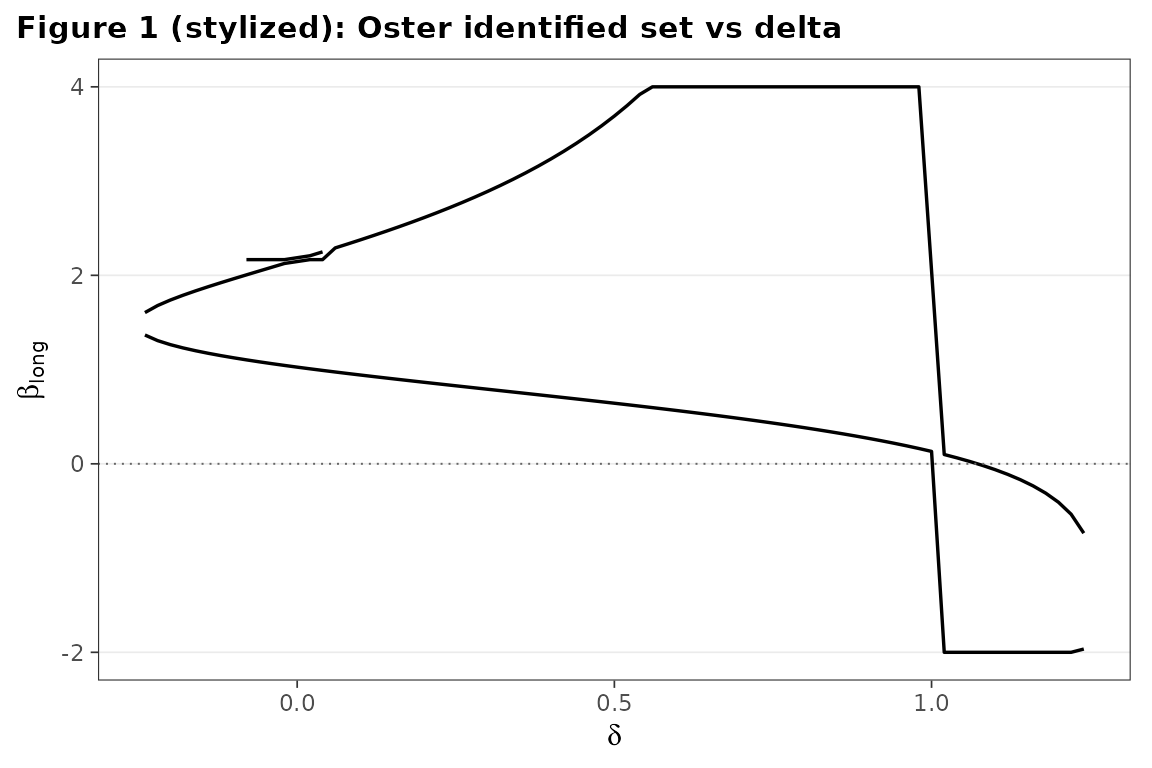
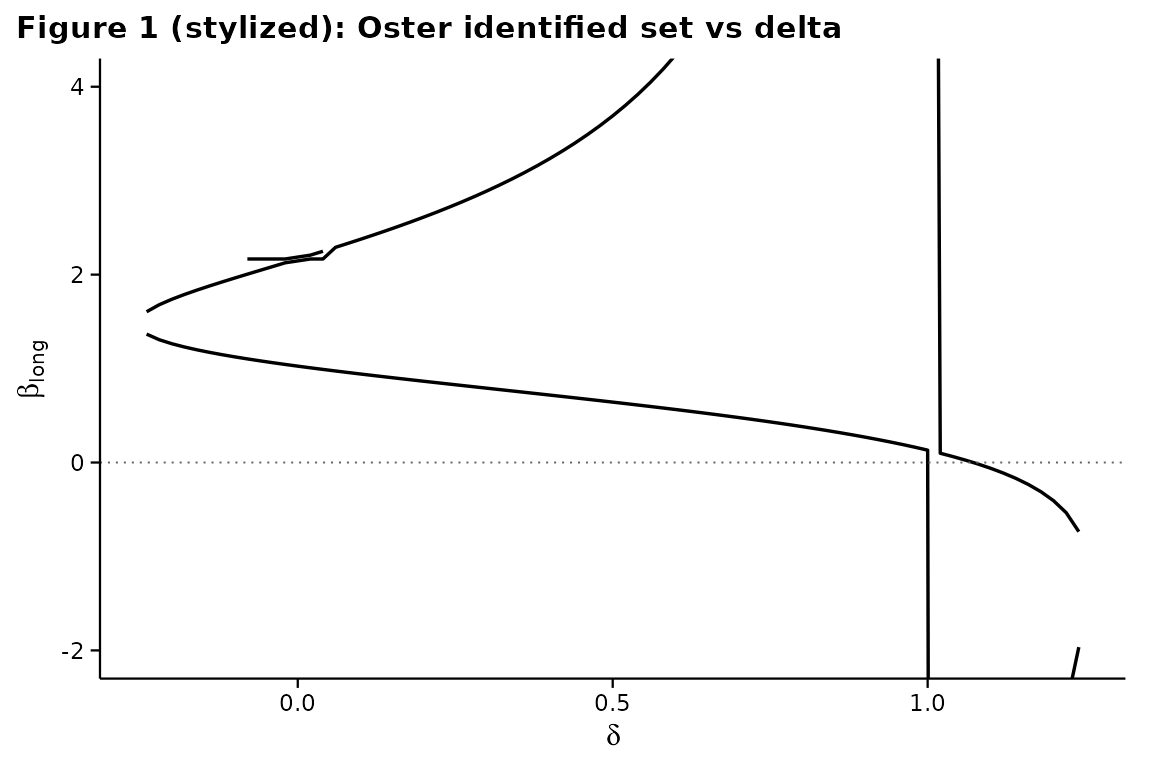
Deploying to gh-pages from @ mikenguyen13/regsensitivity@04977163bb1d66c568243dbd90709f98f32f695f 🚀

diff --git a/reference/theme_regsen.html b/reference/theme_regsen.html
@@ -1,11 +1,13 @@
 <!DOCTYPE html>
-<!-- Generated by pkgdown: do not edit by hand --><html lang="en-US"><head><meta http-equiv="Content-Type" content="text/html; charset=UTF-8"><meta charset="utf-8"><meta http-equiv="X-UA-Compatible" content="IE=edge"><meta name="viewport" content="width=device-width, initial-scale=1, shrink-to-fit=no"><title>Publication-ready theme for sensitivity plots — theme_regsen • regsensitivity</title><!-- favicons --><link rel="icon" type="image/png" sizes="96x96" href="../favicon-96x96.png"><link rel="icon" type="”image/svg+xml”" href="../favicon.svg"><link rel="apple-touch-icon" sizes="180x180" href="../apple-touch-icon.png"><link rel="icon" sizes="any" href="../favicon.ico"><link rel="manifest" href="../site.webmanifest"><script src="../deps/jquery-3.6.0/jquery-3.6.0.min.js"></script><meta name="viewport" content="width=device-width, initial-scale=1, shrink-to-fit=no"><link href="../deps/bootstrap-5.3.8/bootstrap.min.css" rel="stylesheet"><script src="../deps/bootstrap-5.3.8/bootstrap.bundle.min.js"></script><link href="../deps/font-awesome-6.5.2/css/all.min.css" rel="stylesheet"><link href="../deps/font-awesome-6.5.2/css/v4-shims.min.css" rel="stylesheet"><script src="../deps/headroom-0.11.0/headroom.min.js"></script><script src="../deps/headroom-0.11.0/jQuery.headroom.min.js"></script><script src="../deps/bootstrap-toc-1.0.1/bootstrap-toc.min.js"></script><script src="../deps/clipboard.js-2.0.11/clipboard.min.js"></script><script src="../deps/search-1.0.0/autocomplete.jquery.min.js"></script><script src="../deps/search-1.0.0/fuse.min.js"></script><script src="../deps/search-1.0.0/mark.min.js"></script><!-- pkgdown --><script src="../pkgdown.js"></script><meta property="og:title" content="Publication-ready theme for sensitivity plots — theme_regsen"><meta name="description" content="A ggplot2 theme tuned for figures that will be dropped into a paper:
-no panel background, a thin panel border, a faint horizontal grid to help
-read values off the y-axis, and a legend along the top so the plot region
-keeps its aspect ratio when the figure is scaled down to one column."><meta property="og:description" content="A ggplot2 theme tuned for figures that will be dropped into a paper:
-no panel background, a thin panel border, a faint horizontal grid to help
-read values off the y-axis, and a legend along the top so the plot region
-keeps its aspect ratio when the figure is scaled down to one column."><meta property="og:image" content="https://mikenguyen13.github.io/regsensitivity/logo.png"></head><body>
+<!-- Generated by pkgdown: do not edit by hand --><html lang="en-US"><head><meta http-equiv="Content-Type" content="text/html; charset=UTF-8"><meta charset="utf-8"><meta http-equiv="X-UA-Compatible" content="IE=edge"><meta name="viewport" content="width=device-width, initial-scale=1, shrink-to-fit=no"><title>Publication-ready theme for sensitivity plots — theme_regsen • regsensitivity</title><!-- favicons --><link rel="icon" type="image/png" sizes="96x96" href="../favicon-96x96.png"><link rel="icon" type="”image/svg+xml”" href="../favicon.svg"><link rel="apple-touch-icon" sizes="180x180" href="../apple-touch-icon.png"><link rel="icon" sizes="any" href="../favicon.ico"><link rel="manifest" href="../site.webmanifest"><script src="../deps/jquery-3.6.0/jquery-3.6.0.min.js"></script><meta name="viewport" content="width=device-width, initial-scale=1, shrink-to-fit=no"><link href="../deps/bootstrap-5.3.8/bootstrap.min.css" rel="stylesheet"><script src="../deps/bootstrap-5.3.8/bootstrap.bundle.min.js"></script><link href="../deps/font-awesome-6.5.2/css/all.min.css" rel="stylesheet"><link href="../deps/font-awesome-6.5.2/css/v4-shims.min.css" rel="stylesheet"><script src="../deps/headroom-0.11.0/headroom.min.js"></script><script src="../deps/headroom-0.11.0/jQuery.headroom.min.js"></script><script src="../deps/bootstrap-toc-1.0.1/bootstrap-toc.min.js"></script><script src="../deps/clipboard.js-2.0.11/clipboard.min.js"></script><script src="../deps/search-1.0.0/autocomplete.jquery.min.js"></script><script src="../deps/search-1.0.0/fuse.min.js"></script><script src="../deps/search-1.0.0/mark.min.js"></script><!-- pkgdown --><script src="../pkgdown.js"></script><meta property="og:title" content="Publication-ready theme for sensitivity plots — theme_regsen"><meta name="description" content="A ggplot2 theme tuned for figures that will be dropped into a paper.
+It follows the conventions of the economics journals: an L of axis lines
+rather than a box, no grid, ticks outside the panel, no figure title (the
+caption carries it), and a legend along the top so the plot region keeps
+its aspect ratio when the figure is scaled down to one column."><meta property="og:description" content="A ggplot2 theme tuned for figures that will be dropped into a paper.
+It follows the conventions of the economics journals: an L of axis lines
+rather than a box, no grid, ticks outside the panel, no figure title (the
+caption carries it), and a legend along the top so the plot region keeps
+its aspect ratio when the figure is scaled down to one column."><meta property="og:image" content="https://mikenguyen13.github.io/regsensitivity/logo.png"></head><body>
     <a href="#main" class="visually-hidden-focusable">Skip to contents</a>
 
 
@@ -49,10 +51,11 @@ keeps its aspect ratio when the figure is scaled down to one column."><meta prop
     </div>
 
     <div class="ref-description section level2">
-    <p>A <span class="pkg">ggplot2</span> theme tuned for figures that will be dropped into a paper:
-no panel background, a thin panel border, a faint horizontal grid to help
-read values off the y-axis, and a legend along the top so the plot region
-keeps its aspect ratio when the figure is scaled down to one column.</p>
+    <p>A <span class="pkg">ggplot2</span> theme tuned for figures that will be dropped into a paper.
+It follows the conventions of the economics journals: an L of axis lines
+rather than a box, no grid, ticks outside the panel, no figure title (the
+caption carries it), and a legend along the top so the plot region keeps
+its aspect ratio when the figure is scaled down to one column.</p>
     </div>
 
     <div class="section level2">
@@ -60,7 +63,7 @@ keeps its aspect ratio when the figure is scaled down to one column.</p>
     <div class="sourceCode"><pre class="sourceCode r"><code><span><span class="fu">theme_regsen</span><span class="op">(</span></span>
 <span>  base_size <span class="op">=</span> <span class="fl">11</span>,</span>
 <span>  base_family <span class="op">=</span> <span class="st">""</span>,</span>
-<span>  grid <span class="op">=</span> <span class="fu"><a href="https://rdrr.io/r/base/c.html" class="external-link">c</a></span><span class="op">(</span><span class="st">"y"</span>, <span class="st">"x"</span>, <span class="st">"both"</span>, <span class="st">"none"</span><span class="op">)</span>,</span>
+<span>  grid <span class="op">=</span> <span class="fu"><a href="https://rdrr.io/r/base/c.html" class="external-link">c</a></span><span class="op">(</span><span class="st">"none"</span>, <span class="st">"y"</span>, <span class="st">"x"</span>, <span class="st">"both"</span><span class="op">)</span>,</span>
 <span>  legend_position <span class="op">=</span> <span class="st">"top"</span></span>
 <span><span class="op">)</span></span></code></pre></div>
     </div>
@@ -79,8 +82,10 @@ default, which keeps figures reproducible across machines.</p></dd>
 
 
 <dt id="arg-grid">grid<a class="anchor" aria-label="anchor" href="#arg-grid"></a></dt>
-<dd><p>One of <code>"y"</code> (default), <code>"x"</code>, <code>"both"</code> or <code>"none"</code>, choosing
-which faint grid lines to draw.</p></dd>
+<dd><p>One of <code>"none"</code> (default), <code>"y"</code>, <code>"x"</code> or <code>"both"</code>, choosing
+which faint grid lines to draw. The default is none, following the
+economics journals: a figure should carry ink only where it carries
+data. Use <code>"y"</code> when readers need to take values off the axis.</p></dd>
 
 
 <dt id="arg-legend-position">legend_position<a class="anchor" aria-label="anchor" href="#arg-legend-position"></a></dt>
@@ -93,7 +98,11 @@ which faint grid lines to draw.</p></dd>
     </div>
     <div class="section level2">
     <h2 id="details">Details<a class="anchor" aria-label="anchor" href="#details"></a></h2>
-    <p>The default <code>base_size</code> of 11 assumes a figure rendered at roughly
+    <p>To match a LaTeX manuscript's body type, pass a serif family, e.g.
+<code>theme_regsen(base_family = "Times New Roman")</code>. Fonts are left to the
+caller because what is installed varies by machine, and a missing family
+would make figures unreproducible.</p>
+<p>The default <code>base_size</code> of 11 assumes a figure rendered at roughly
 6 inches wide. For a two-column journal figure, render at 3.3 inches and
 pass <code>base_size = 9</code>; the type will then sit at about 8pt on the page.</p>
     </div>

diff --git a/reference/theme_regsen.md b/reference/theme_regsen.md
@@ -1,10 +1,10 @@
 # Publication-ready theme for sensitivity plots
 
-A ggplot2 theme tuned for figures that will be dropped into a paper: no
-panel background, a thin panel border, a faint horizontal grid to help
-read values off the y-axis, and a legend along the top so the plot
-region keeps its aspect ratio when the figure is scaled down to one
-column.
+A ggplot2 theme tuned for figures that will be dropped into a paper. It
+follows the conventions of the economics journals: an L of axis lines
+rather than a box, no grid, ticks outside the panel, no figure title
+(the caption carries it), and a legend along the top so the plot region
+keeps its aspect ratio when the figure is scaled down to one column.
 
 ## Usage
 
@@ -12,7 +12,7 @@ column.
 theme_regsen(
   base_size = 11,
   base_family = "",
-  grid = c("y", "x", "both", "none"),
+  grid = c("none", "y", "x", "both"),
   legend_position = "top"
 )
 ```
@@ -30,8 +30,10 @@ theme_regsen(
 
 - grid:
 
-  One of `"y"` (default), `"x"`, `"both"` or `"none"`, choosing which
-  faint grid lines to draw.
+  One of `"none"` (default), `"y"`, `"x"` or `"both"`, choosing which
+  faint grid lines to draw. The default is none, following the economics
+  journals: a figure should carry ink only where it carries data. Use
+  `"y"` when readers need to take values off the axis.
 
 - legend_position:
 
@@ -44,6 +46,11 @@ theme_regsen(
 A ggplot2 theme object, which can be added to any plot.
 
 ## Details
+
+To match a LaTeX manuscript's body type, pass a serif family, e.g.
+`theme_regsen(base_family = "Times New Roman")`. Fonts are left to the
+caller because what is installed varies by machine, and a missing family
+would make figures unreproducible.
 
 The default `base_size` of 11 assumes a figure rendered at roughly 6
 inches wide. For a two-column journal figure, render at 3.3 inches and
